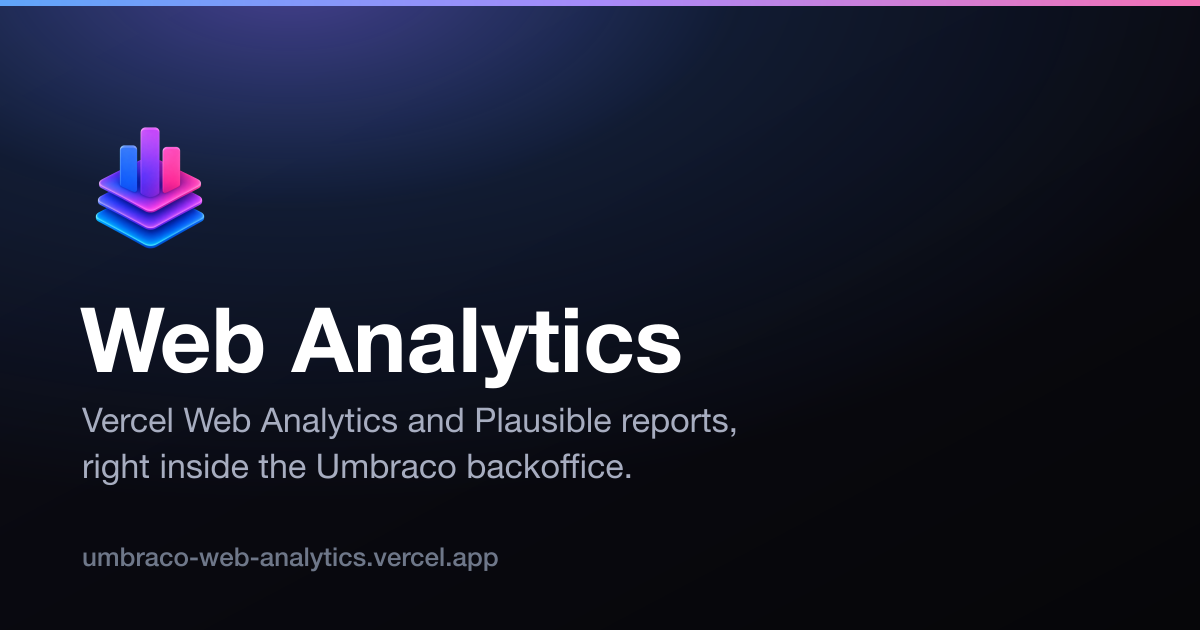
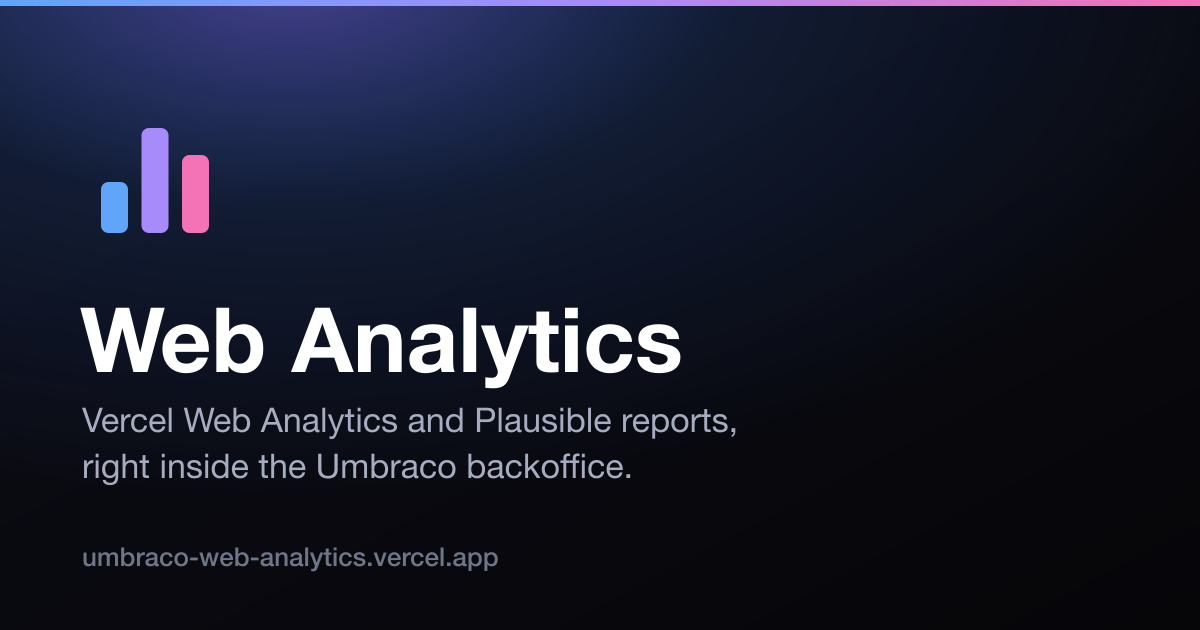
Adopt the flat bar-chart mark across the brand
Replace the detailed 3D layered mark with a simple flat bar-chart glyph
(blue, purple, pink bars) as the single Web Analytics mark. It stays
legible at favicon size where the 3D render muddied, and reads as one
clear idea.

- Add scripts/mark.mjs as the single SVG source of truth;
  scripts/generate-brand.mjs regenerates the favicon, header/hero logo,
  the NuGet/Marketplace tile, and the OG card from it. Remove the old
  generate-og/generate-icon scripts and the retired 3D source
  (web-analytics.png).
- Revert the landing section markers from the bar-chart glyph back to a
  quiet gradient line, so the mark is reserved for the logo rather than
  repeated on every section.

Changed region(s): [[0.0617, 0.181, 0.185, 0.3921]]

diff --git a/apps/docs/pages/_home/home.css b/apps/docs/pages/_home/home.css
@@ -222,14 +222,18 @@
   margin: 0 auto 2.5rem;
   text-align: center;
 }
-.kicker {
-  display: inline-block;
-  font-size: 0.8rem;
-  font-weight: 600;
-  letter-spacing: 0.08em;
-  text-transform: uppercase;
-  color: var(--blume-accent);
-  margin-bottom: 0.75rem;
+/* A short brand-gradient line marks each section. The bar-chart motif is
+   reserved for the logo, so the divider stays quiet. */
+.rule {
+  display: block;
+  width: 44px;
+  height: 4px;
+  border-radius: 999px;
+  background: var(--brand-gradient);
+  margin: 0 0 1.15rem;
+}
+.home-block__head .rule {
+  margin-inline: auto;
 }
 .home-block__head h2,
 .split__copy h2,
